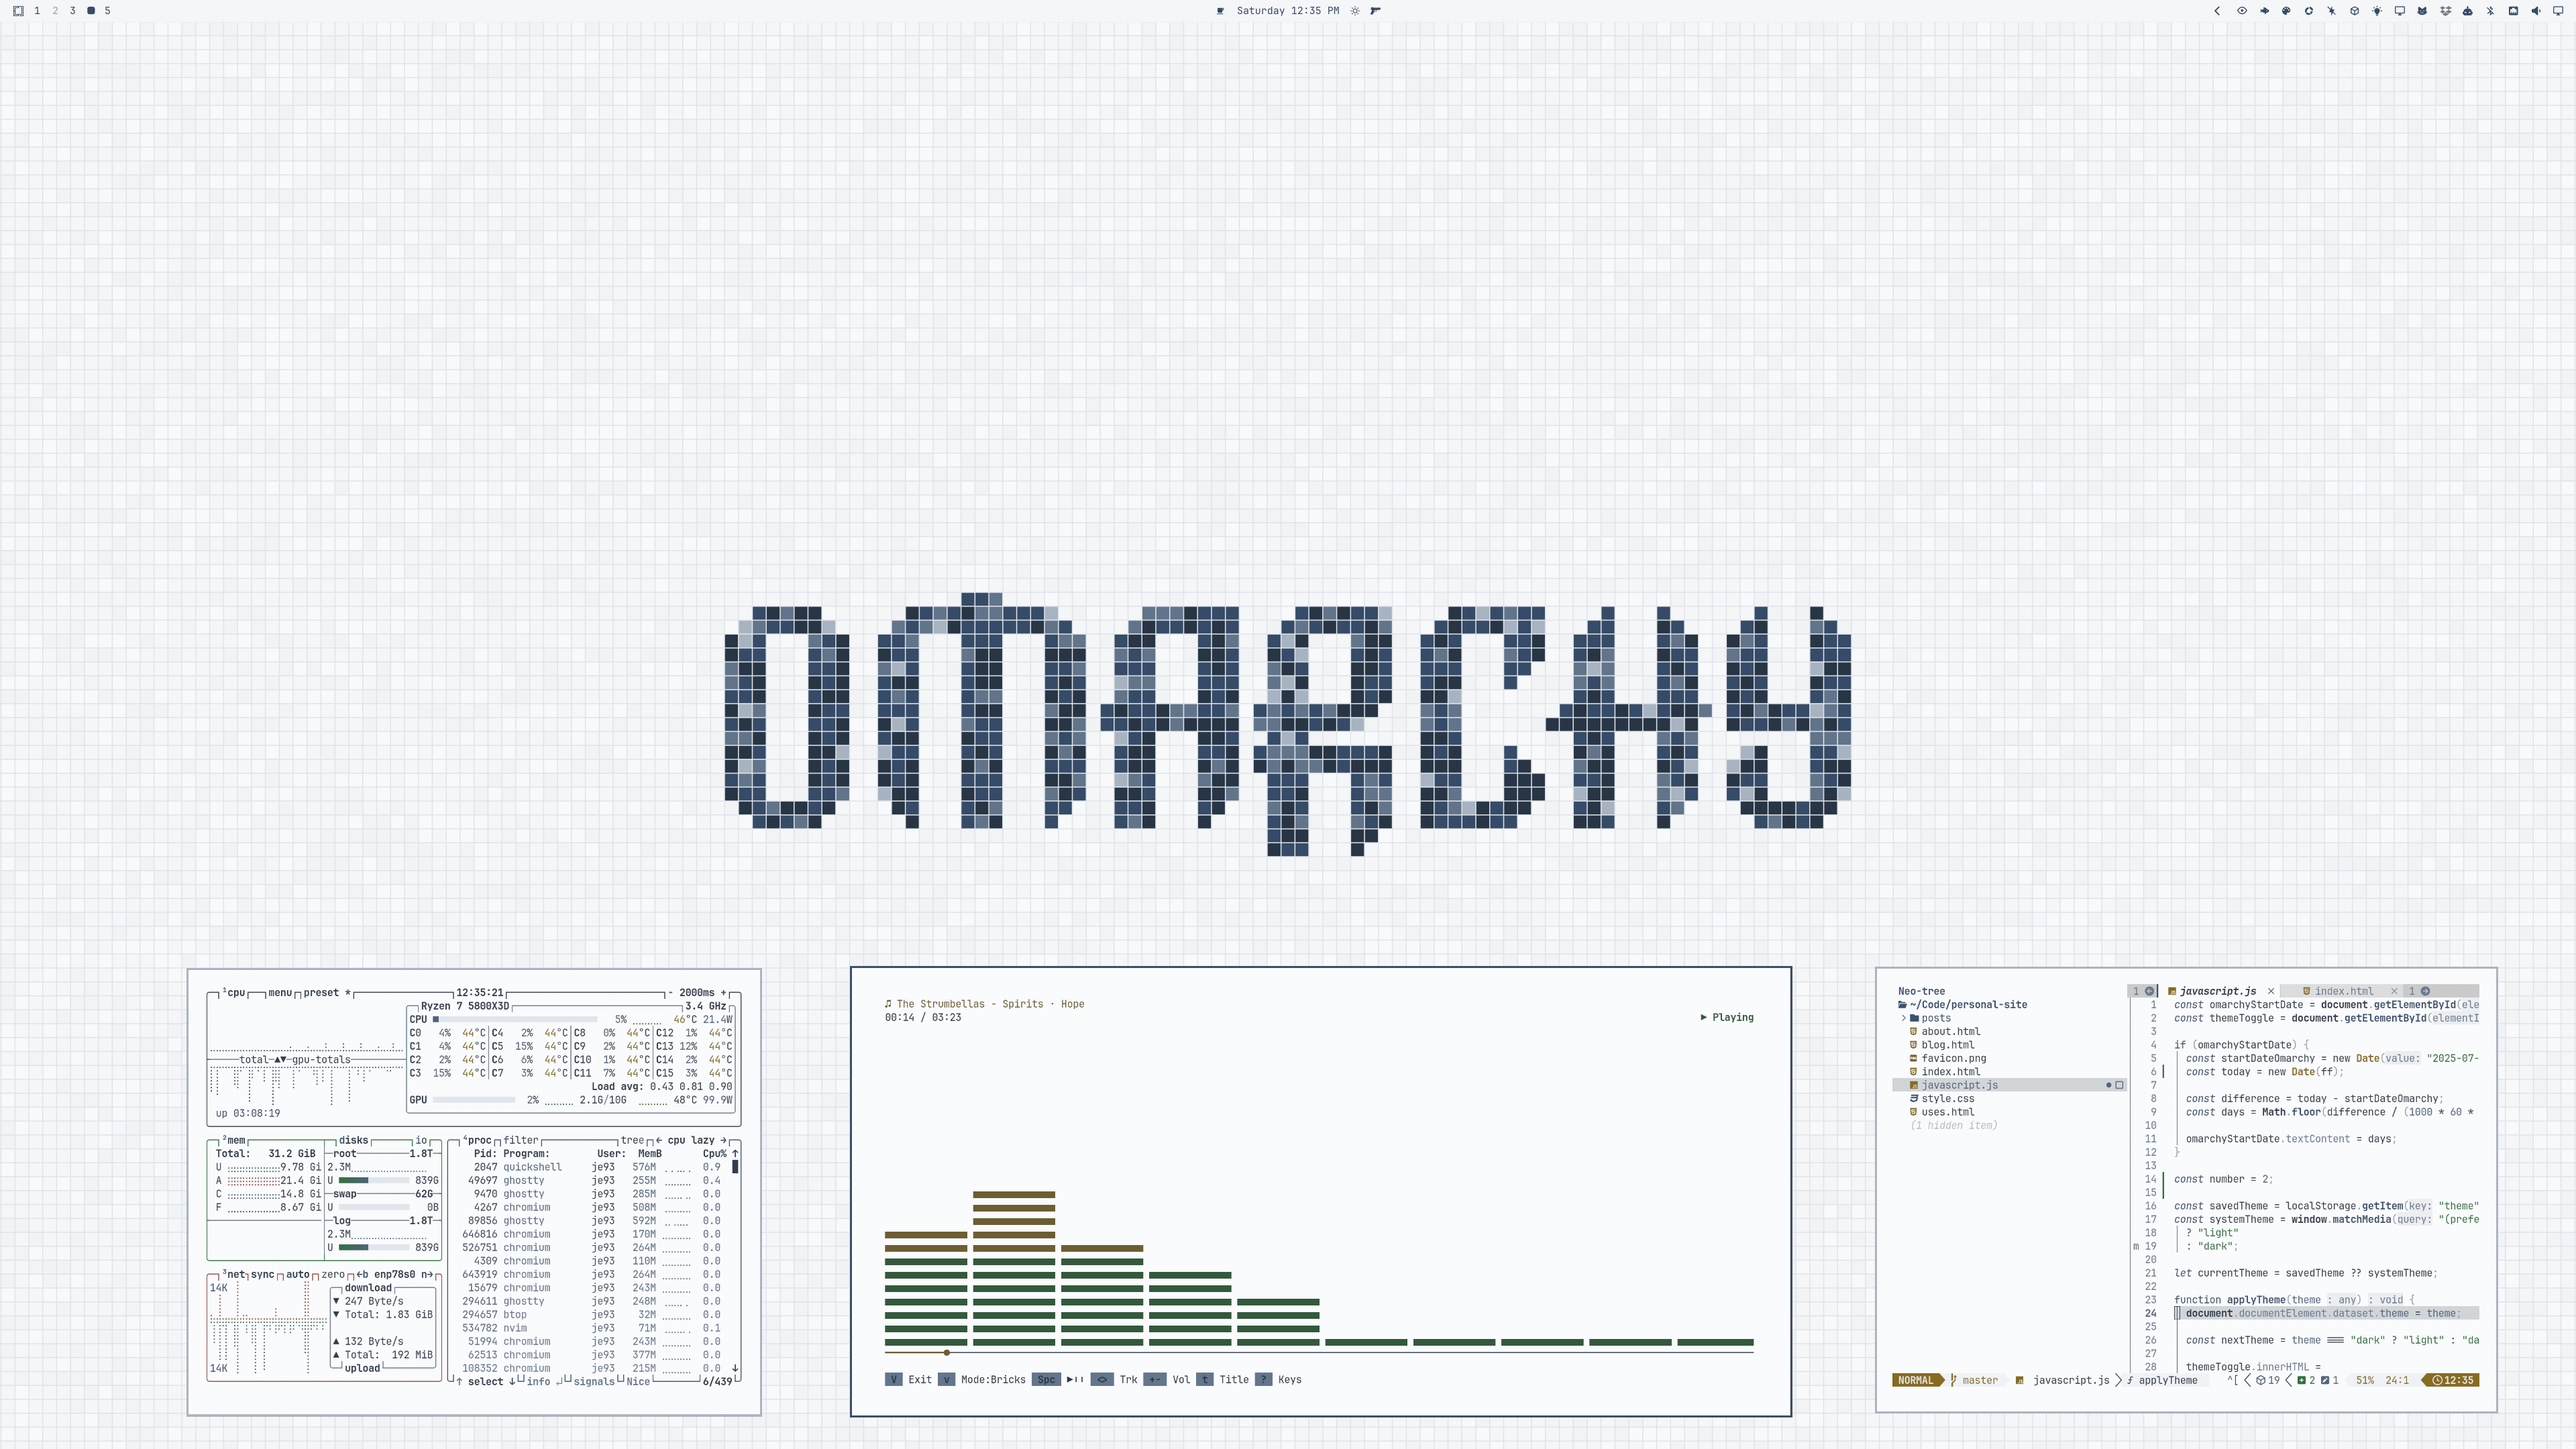
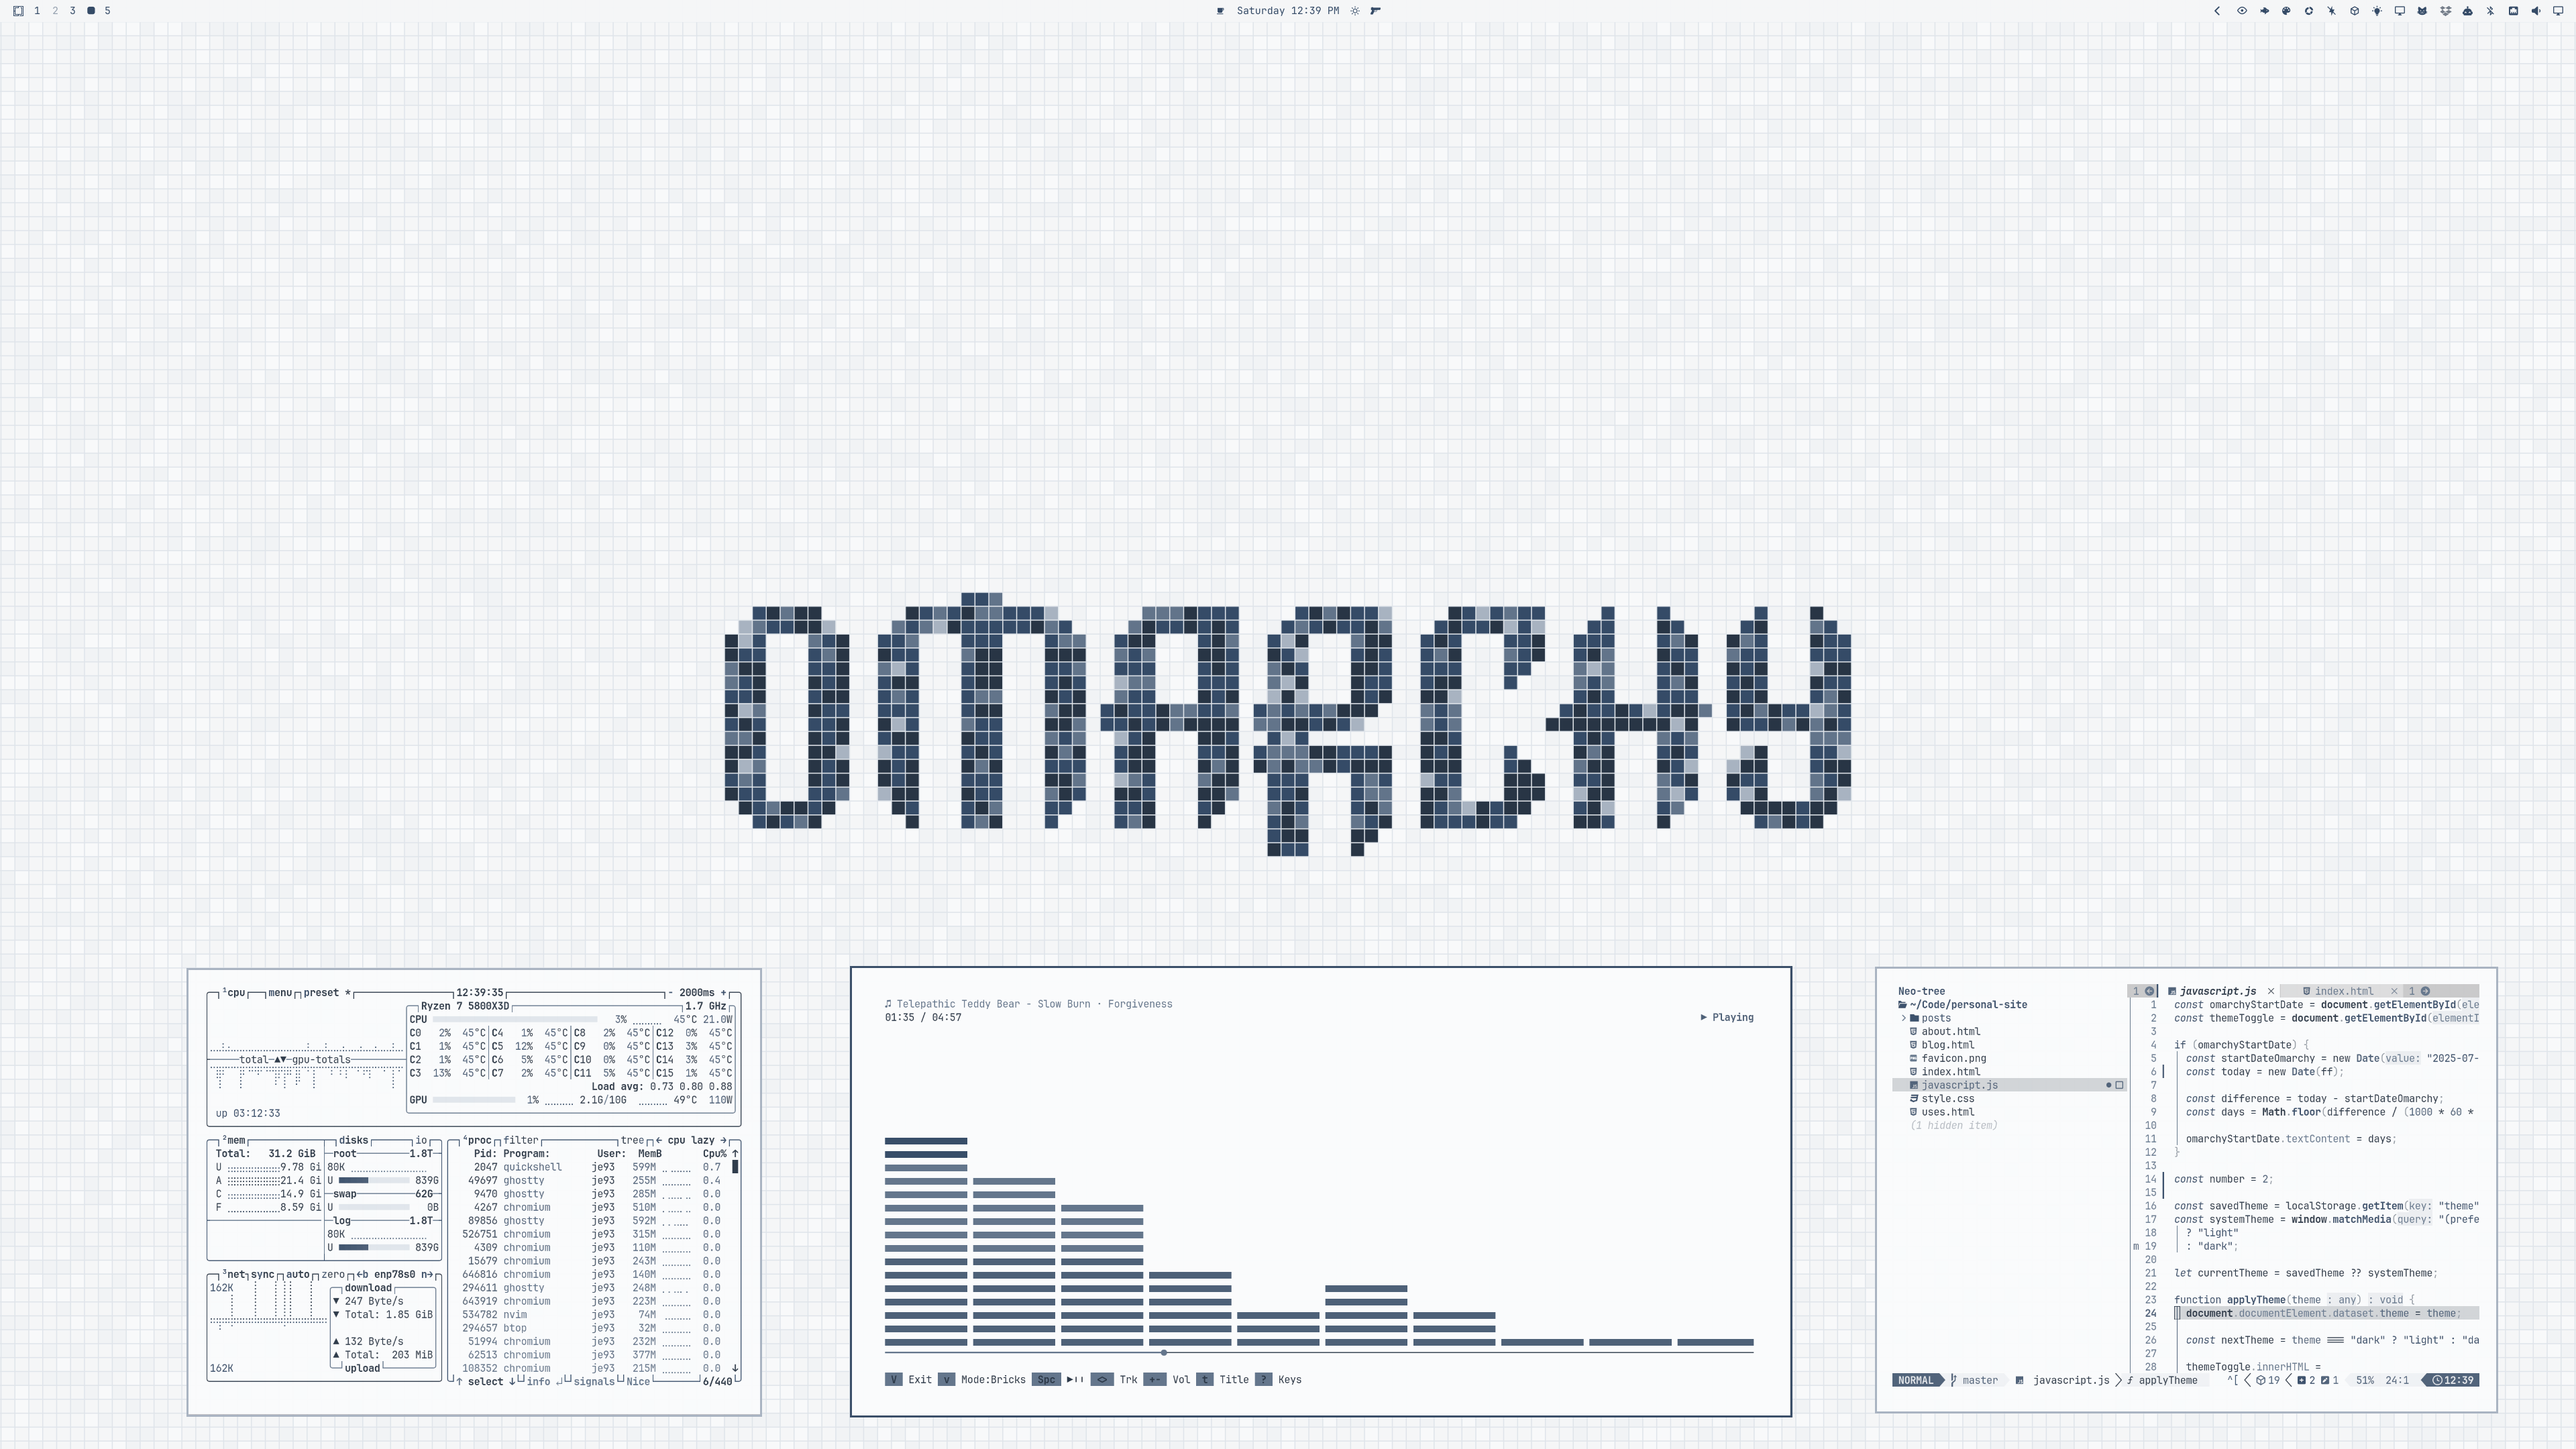
Keep the tonal terminal colours
Go back to the theme's own tonal terminal palette, which keeps cliamp
and other terminal apps in one family of colours, and show a single
desktop preview with the wordmark wallpaper.

diff --git a/README.md b/README.md
@@ -4,8 +4,6 @@ A light theme for Omarchy with pale mosaic tiles, graphite-blue motifs, and a ma
 
 ![Blue Mosaic — wordmark wallpaper](preview.png)
 
-![Blue Mosaic — logo wallpaper](preview-logo.png)
-
 ## Install
 
 For **Omarchy 4 with Omarchy Shell**:
